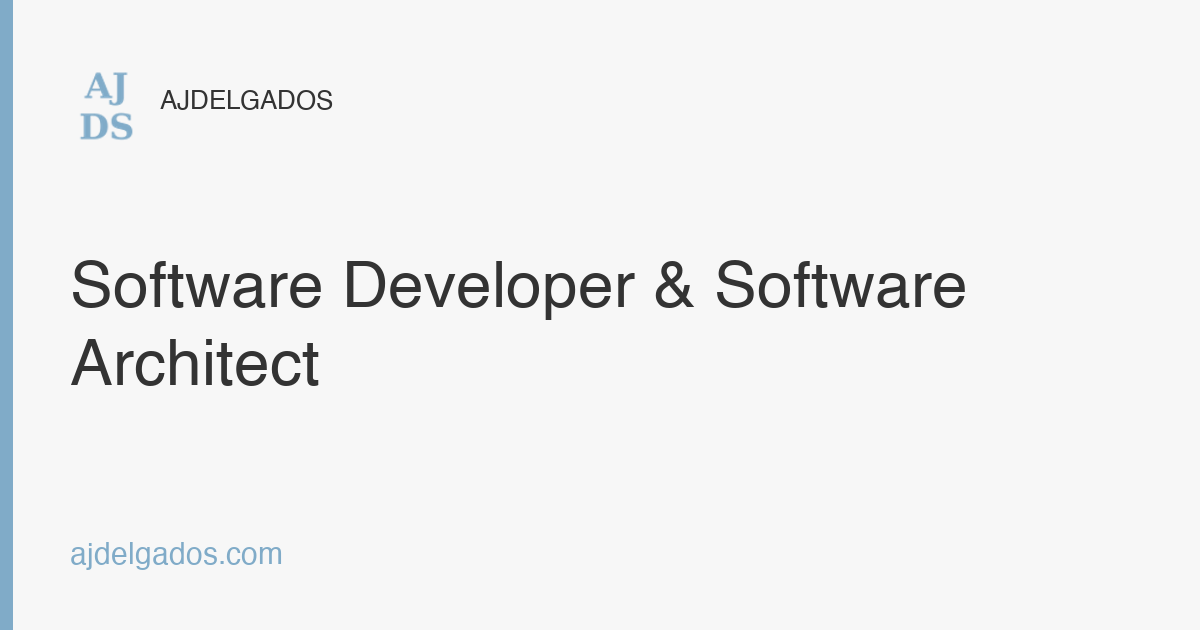
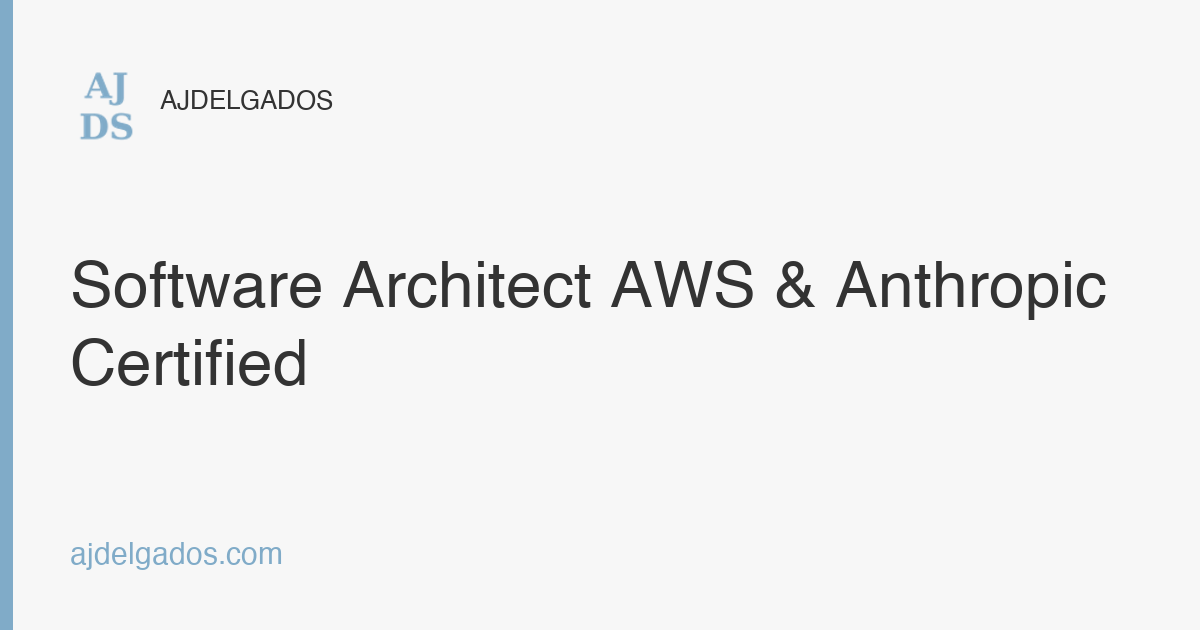
Add badges

Changed region(s): [[0.2775, 0.3921, 0.925, 0.5127], [0.0617, 0.5429, 0.2775, 0.6333]]

diff --git a/index.html b/index.html
@@ -12,17 +12,17 @@
   </script>
   <meta name="viewport" content="width=device-width, initial-scale=1.0">
   <title>Software Developer en acción - Arturo J. Delgado S.</title>
-  <meta name="description" content="Arturo J. Delgado S. — Software Developer & Software Architect. Blog sobre AWS, React, NestJS, Golang, GraphQL y más.">
+  <meta name="description" content="Arturo J. Delgado S. — Software Developer & Software Architect. Blog sobre AWS, Kubernetes, Python, Terraform, AI y más.">
   <link rel="canonical" href="https://ajdelgados.com/">
   <meta name="author" content="Arturo J. Delgado S.">
-  <meta name="keywords" content="Arturo Delgado, Software Developer, Software Architect, AWS, React, NestJS, Golang, GraphQL, blog">
+  <meta name="keywords" content="Arturo Delgado, Software Developer, AWS Certified, AWS Solutions Architect Professional, AWS DevOps Engineer, Claude Certified Architect, Anthropic">
   <meta name="robots" content="index, follow">
   <!-- Open Graph -->
   <meta property="og:type" content="website">
   <meta property="og:site_name" content="AJDELGADOS">
   <meta property="og:locale" content="es_ES">
   <meta property="og:title" content="Software Developer en acción - Arturo J. Delgado S.">
-  <meta property="og:description" content="Arturo J. Delgado S. — Software Developer &amp; Software Architect. Blog sobre AWS, React, NestJS, Golang, GraphQL y más.">
+  <meta property="og:description" content="Arturo J. Delgado S. — Software Developer &amp; Software Architect. Blog sobre AWS, Kubernetes, Python, Terraform, AI y más.">
   <meta property="og:url" content="https://ajdelgados.com/">
   <meta property="og:image" content="https://ajdelgados.com/assets/og-home.png">
   <meta property="og:image:width" content="1200">
@@ -31,12 +31,13 @@
   <meta name="twitter:card" content="summary_large_image">
   <meta name="twitter:site" content="@ajdelgados">
   <meta name="twitter:title" content="Software Developer en acción - Arturo J. Delgado S.">
-  <meta name="twitter:description" content="Arturo J. Delgado S. — Software Developer &amp; Software Architect. Blog sobre AWS, React, NestJS, Golang, GraphQL y más.">
+  <meta name="twitter:description" content="Arturo J. Delgado S. — Software Developer &amp; Software Architect. Blog sobre AWS, Kubernetes, Python, Terraform, AI y más.">
   <meta name="twitter:image" content="https://ajdelgados.com/assets/og-home.png">
   <link rel="icon" href="assets/favicon-32x32.png" sizes="32x32">
   <link rel="icon" href="assets/favicon-192x192.png" sizes="192x192">
   <link rel="apple-touch-icon" href="assets/apple-touch-icon.png">
   <link rel="stylesheet" href="https://cdnjs.cloudflare.com/ajax/libs/font-awesome/4.7.0/css/font-awesome.min.css">
+  <link rel="stylesheet" href="https://use.typekit.net/kmj5qkr.css">
   <style>
     :root {
       --accent: #80abc8;
@@ -130,6 +131,77 @@
     .feature .icon:hover i { color: #fff; }
     .feature h3 { margin-bottom: 10px; font-size: 18px; }
 
+    /* Badges (Credly) */
+    #badges { border-top: 1px solid var(--border); }
+    /* Los 8 badges de Credly son iframes: su texto no es indexable ni lo lee
+       un screen reader. Esta lista da el equivalente accesible/rastreable. */
+    .sr-only {
+      position: absolute; width: 1px; height: 1px; overflow: hidden;
+      clip: rect(0 0 0 0); clip-path: inset(50%); white-space: nowrap;
+    }
+    .badges-grid {
+      display: grid; grid-template-columns: repeat(3, 150px);
+      justify-content: center; gap: 30px 40px;
+    }
+    /* Reserve the embed's 150x270 box so the async iframes don't shift the layout */
+    .badge { width: 150px; min-height: 270px; }
+
+    /* Toptal badge — hexágono propio, no es un embed de Credly.
+       El marco replica el CSS del iframe de Credly para que la celda se vea
+       igual a las otras 8: borde #e5e5e5 radio 3px + barra inferior #f0f0f0. */
+    .tt-badge {
+      display: flex; flex-direction: column;
+      background: #fff; border: 1px solid #e5e5e5; border-radius: 3px;
+      /* el marco se ajusta a su contenido en vez de estirarse a los 270px
+         que los iframes de Credly necesitan reservar */
+      align-self: start; min-height: 0;
+    }
+    .tt-badge-body { display: flex; justify-content: center; padding: 22px 0 0; }
+    .tt-badge-inner {
+      --hex: polygon(50% 0, 100% 24%, 100% 76%, 50% 100%, 0 76%, 0 24%);
+      font-family: proxima-nova, "Helvetica Neue", Arial, sans-serif;
+      /* zoom (no transform) para que el tamaño reducido cuente en el layout
+         y flex pueda centrarlo sin márgenes negativos. */
+      zoom: .46;
+    }
+    /* mismos valores que #badge-name / #badge-issuer del embed de Credly */
+    .tt-name {
+      display: block; color: #333; font-size: 15px; font-weight: normal;
+      line-height: 1.1em; margin: 22px 8px 8px; text-align: center;
+    }
+    .tt-issuer {
+      color: #666; font-size: 12px; font-style: italic;
+      line-height: 1.1em; margin: 0 8px 18px; text-align: center;
+    }
+    .tt-name a { color: #333; }
+    .tt-name a:hover { color: var(--link-hover); }
+    .tt-provided {
+      background: #f0f0f0; border-top: 1px solid #e2e2e2;
+      border-radius: 0 0 3px 3px;
+      color: #b6b6b6; font-size: 7px; line-height: 28px;
+      text-transform: uppercase; text-align: center; letter-spacing: .5px;
+    }
+    .tt-frame { display: inline-block; background: #25a9ef; padding: 6px; clip-path: var(--hex); }
+    .tt-card {
+      width: 200px; padding: 24px 0 40px;
+      display: flex; flex-direction: column; align-items: center; gap: 8px;
+      color: #fff; text-align: center;
+      background: linear-gradient(153deg, #0667ff 18%, #204ecf 40%, #0f256e 80%);
+      clip-path: var(--hex); box-shadow: 0 28px 50px rgba(6,30,96,.35);
+    }
+    /* rótulo del gráfico, no un heading: es un span para no ensuciar el
+       outline de headings de la página (display:block reemplaza el del h3) */
+    .tt-title { display: block; margin: 0; font-size: 19px; font-weight: 700; line-height: 1; color: #fff; }
+    .tt-rule { width: 120px; height: 1px; background: #25a9ef; }
+    .tt-by { font-size: 16px; opacity: .8; margin-bottom: -6px; }
+    .tt-cta {
+      display: inline-flex; align-items: center; justify-content: center;
+      padding: 4px 20px; border-radius: 6px; background: #296bff;
+      color: #fff; font-size: 16px; font-weight: 500;
+      text-decoration: underline; text-decoration-thickness: .5px; text-underline-offset: 2px;
+    }
+    .tt-cta:hover { color: #fff; background: #1a56e0; }
+
     /* Blog */
     .blog { background: var(--light); }
     .posts { display: grid; grid-template-columns: repeat(2, 1fr); gap: 30px; }
@@ -165,6 +237,11 @@
       .header-inner { flex-direction: column; gap: 16px; }
       .features, .posts { grid-template-columns: 1fr; }
       .hero h1 { font-size: 30px; }
+      .badges-grid { grid-template-columns: repeat(2, 150px); gap: 24px; }
+    }
+
+    @media (max-width: 420px) {
+      .badges-grid { grid-template-columns: 150px; }
     }
 
     /* Touch devices: 44px minimum tap targets (input method, not screen size) */
@@ -189,6 +266,64 @@
       "https://www.linkedin.com/in/ajdelgados",
       "https://www.facebook.com/ajdelgados",
       "https://www.twitter.com/ajdelgados"
+    ],
+    "hasCredential": [
+      {
+        "@type": "EducationalOccupationalCredential",
+        "name": "Claude Certified Architect - Foundations",
+        "credentialCategory": "certification",
+        "url": "https://www.credly.com/badges/feece8af-5340-4550-8ade-09badb1aa62a",
+        "recognizedBy": { "@type": "Organization", "name": "Anthropic" }
+      },
+      {
+        "@type": "EducationalOccupationalCredential",
+        "name": "AWS Certified Generative AI Developer - Professional",
+        "credentialCategory": "certification",
+        "url": "https://www.credly.com/badges/9a708c68-4aa1-4bce-8f73-2cc88c1d6a04",
+        "recognizedBy": { "@type": "Organization", "name": "Amazon Web Services" }
+      },
+      {
+        "@type": "EducationalOccupationalCredential",
+        "name": "AWS Certified Solutions Architect - Professional",
+        "credentialCategory": "certification",
+        "url": "https://www.credly.com/badges/8902d4fc-3191-45e8-8014-0bf8af8eeef8",
+        "recognizedBy": { "@type": "Organization", "name": "Amazon Web Services" }
+      },
+      {
+        "@type": "EducationalOccupationalCredential",
+        "name": "AWS Certified DevOps Engineer - Professional",
+        "credentialCategory": "certification",
+        "url": "https://www.credly.com/badges/6dfebd2c-2da3-413a-9fcb-7db323493552",
+        "recognizedBy": { "@type": "Organization", "name": "Amazon Web Services" }
+      },
+      {
+        "@type": "EducationalOccupationalCredential",
+        "name": "AWS Certified Security - Specialty",
+        "credentialCategory": "certification",
+        "url": "https://www.credly.com/badges/35d16ca4-dcbe-4157-9798-607511eed3c8",
+        "recognizedBy": { "@type": "Organization", "name": "Amazon Web Services" }
+      },
+      {
+        "@type": "EducationalOccupationalCredential",
+        "name": "AWS Certified Advanced Networking - Specialty",
+        "credentialCategory": "certification",
+        "url": "https://www.credly.com/badges/72b4f514-bfd9-4792-be84-952b9d17e926",
+        "recognizedBy": { "@type": "Organization", "name": "Amazon Web Services" }
+      },
+      {
+        "@type": "EducationalOccupationalCredential",
+        "name": "AWS Certified Machine Learning - Specialty",
+        "credentialCategory": "certification",
+        "url": "https://www.credly.com/badges/9a89ee8f-55db-44e0-997d-614f7e3b1f9d",
+        "recognizedBy": { "@type": "Organization", "name": "Amazon Web Services" }
+      },
+      {
+        "@type": "EducationalOccupationalCredential",
+        "name": "AWS Certified Machine Learning Engineer - Associate",
+        "credentialCategory": "certification",
+        "url": "https://www.credly.com/badges/967560f4-1cd6-46c0-b578-3eb1f3db700d",
+        "recognizedBy": { "@type": "Organization", "name": "Amazon Web Services" }
+      }
     ]
   }
 }
@@ -210,6 +345,7 @@
       <nav>
         <ul>
           <li><a href="#inicio">Inicio</a></li>
+          <li><a href="#badges">Badges</a></li>
           <li><a href="#blog">Blog</a></li>
         </ul>
       </nav>
@@ -221,7 +357,7 @@
   <section class="hero" id="inicio">
     <div class="container">
       <h1>Hola, soy <span class="accent">Arturo</span></h1>
-      <p>Software Developer y Software Architect apasionado por mi profesión. Ayudo a organizaciones y personas a construir sistemas de información eficientes.</p>
+      <p>Software Developer y Software Architect apasionado por mi profesión. AWS & Anthropic certified y ayudo a organizaciones y personas a construir sistemas de información eficientes.</p>
     </div>
   </section>
 
@@ -248,6 +384,44 @@
       </div>
     </div>
   </section>
+
+  <section id="badges">
+    <div class="container">
+      <h2 class="section-title">Badges — Certificaciones AWS y Anthropic</h2>
+      <p class="section-sub">14 certificaciones AWS —incluidas Solutions Architect, DevOps Engineer y Generative AI Developer a nivel Professional— y Claude Certified Architect de Anthropic.</p>
+      <hr class="divider">
+      <div class="badges-grid">
+        <div class="badge" data-iframe-width="150" data-iframe-height="270" data-share-badge-id="feece8af-5340-4550-8ade-09badb1aa62a" data-share-badge-host="https://www.credly.com"></div>
+        <div class="badge" data-iframe-width="150" data-iframe-height="270" data-share-badge-id="9a708c68-4aa1-4bce-8f73-2cc88c1d6a04" data-share-badge-host="https://www.credly.com"></div>
+        <div class="badge" data-iframe-width="150" data-iframe-height="270" data-share-badge-id="8902d4fc-3191-45e8-8014-0bf8af8eeef8" data-share-badge-host="https://www.credly.com"></div>
+        <div class="badge" data-iframe-width="150" data-iframe-height="270" data-share-badge-id="6dfebd2c-2da3-413a-9fcb-7db323493552" data-share-badge-host="https://www.credly.com"></div>
+        <div class="badge" data-iframe-width="150" data-iframe-height="270" data-share-badge-id="35d16ca4-dcbe-4157-9798-607511eed3c8" data-share-badge-host="https://www.credly.com"></div>
+        <div class="badge" data-iframe-width="150" data-iframe-height="270" data-share-badge-id="72b4f514-bfd9-4792-be84-952b9d17e926" data-share-badge-host="https://www.credly.com"></div>
+        <div class="badge" data-iframe-width="150" data-iframe-height="270" data-share-badge-id="9a89ee8f-55db-44e0-997d-614f7e3b1f9d" data-share-badge-host="https://www.credly.com"></div>
+        <div class="badge" data-iframe-width="150" data-iframe-height="270" data-share-badge-id="967560f4-1cd6-46c0-b578-3eb1f3db700d" data-share-badge-host="https://www.credly.com"></div>
+        <div class="badge tt-badge">
+          <div class="tt-badge-body">
+          <div class="tt-badge-inner">
+          <div class="tt-frame">
+            <div class="tt-card">
+              <svg width="64" viewBox="0 0 60 17" xmlns="http://www.w3.org/2000/svg" aria-hidden="true" focusable="false"><path d="m20.85 6.38 6.06-.89 2.72-5.49 2.71 5.49 6.06.89-4.39 4.28 1.04 6.03-5.42-2.85-5.43 2.85 1.04-6.03zm33.06 7.17 1.85-.27.82-1.67.83 1.67 1.84.27-1.33 1.31.31 1.83-1.65-.87-1.66.87.32-1.83zm-3.38-3.01-3.61-.52-1.61-3.26-1.62 3.26-3.6.52 2.6 2.55-.61 3.59 3.23-1.69 3.21 1.69-.61-3.59zm-45.19 3.01-1.85-.27-.82-1.67-.83 1.67-1.84.27 1.33 1.31-.31 1.83 1.65-.87 1.65.87-.31-1.83zm3.38-3.01 3.61-.52 1.61-3.26 1.61 3.26 3.61.52-2.6 2.55.61 3.59-3.23-1.69-3.22 1.69.62-3.59z" fill="#fff"/></svg>
+              <span class="tt-title">TOP 3% TALENT</span>
+              <div class="tt-rule"></div>
+              <span class="tt-by">Vetted by</span>
+              <svg viewBox="0 0 108 30" width="100" xmlns="http://www.w3.org/2000/svg" role="img" aria-label="Toptal"><g clip-rule="evenodd" fill="#fff" fill-rule="evenodd"><path d="m8.11 0 6.71 6.7c.05.05.09.1.15.15l5.85 5.85-9.51 9.46 4.35 4.36-2.91 2.89-6.66-6.66c-.08-.07-.16-.15-.24-.23l-5.85-5.84 9.48-9.43-4.32-4.31zm4.25 10.5c-.09-.02-.18-.02-.26 0-.09.03-.16.07-.32.22l-5.41 5.39c-.16.16-.2.23-.22.31-.03.09-.03.18 0 .26.02.09.07.17.22.32l1.72 1.72c.15.15.22.19.31.22.09.02.17.02.26 0 .09-.03.16-.07.31-.22l5.41-5.39c.16-.15.2-.23.23-.31.02-.09.02-.17 0-.26s-.07-.16-.22-.31l-1.72-1.72c-.15-.16-.23-.2-.31-.23z"/><path d="m62.65 7.76c2.11 0 3.91.82 5.34 2.4 1.46 1.53 2.19 3.64 2.18 6.26 0 2.56-.75 4.8-2.24 6.38-1.47 1.57-3.34 2.37-5.58 2.37-1.93-.01-3.68-.7-4.84-1.89l-.16-.17-.01 6.75-3.82-.01v-.28l.04-21.61h3.8l-.01 2.64c1.25-1.41 3.26-2.84 5.3-2.84zm24.45.06c2.18 0 3.68.49 4.84 1.44 1.11.92 1.7 2.56 1.75 4.29v.26l-.02 11.14h-3.87v-.46c0-.48 0-.97 0-1.47-1.12 1.55-2.68 2.3-4.76 2.3-1.65 0-3.05-.5-4.07-1.43-1.03-.94-1.58-2.23-1.58-3.73.02-2.83 2.02-4.79 5.52-5.4l.27-.05 4.64-.73v-.37c0-.78-.23-1.72-.69-2.11-.47-.4-1.04-.73-2.03-.73-2.73 0-3.29 2.01-3.32 3.02v.09l-3.42.04c0-1.49.69-3.42 2.08-4.63 1.12-.97 2.75-1.42 4.33-1.47h.3zm-14.98-4.36h3.81l-.01 4.56h3.53v3.18l-3.54-.01-.01 8.54c0 .94.19 1.56.6 1.85.43.3 1.3.02 1.3.02l.34 3.32s-1.2.31-1.96.31c-.99 0-1.84-.25-2.49-.75-1.06-.8-1.6-2.2-1.6-4.17l.02-9.12-3.19-3.19 3.2.01zm-22.46 6.8c1.1 1.13 2.41 3.14 2.4 6.26-.01 3.11-1.32 5.11-2.41 6.24-1.5 1.54-3.54 2.42-5.59 2.42-.08 0-.16 0-.25-.01-2.19-.01-4.13-.79-5.75-2.33-1.63-1.55-2.46-3.68-2.46-6.36s.84-4.82 2.47-6.36c1.62-1.53 3.55-2.3 5.75-2.3 2.17-.07 4.29.83 5.84 2.44zm-8.81-7.04v3.77l-7.36.01.02 17.97-3.97-.01v-.34l.03-17.63h-7.51l.01-3.77zm54.68.25 3.42.01v.09l-.03 21.38-3.42-.01v-.1zm-5.71 13.58-3.81.64c-1.86.32-2.72 1.04-2.73 2.3-.01 1.15.81 1.92 2.09 1.99h.16.02c2.44 0 4.17-1.9 4.26-4.67l.01-.22zm-46.02-5.84c-1.28 0-2.39.49-3.29 1.47-.88.96-1.33 2.24-1.33 3.81 0 1.58.45 2.86 1.33 3.82.89.98 2 1.47 3.28 1.48 1.3 0 2.42-.49 3.31-1.47.9-.98 1.35-2.26 1.36-3.81.01-1.56-.45-2.84-1.35-3.82s-2.01-1.48-3.31-1.48zm17.94.12h-.02c-1.28 0-2.34.46-3.24 1.43-.9.94-1.35 2.16-1.36 3.63 0 1.49.45 2.83 1.35 3.8.92.95 1.98 1.42 3.25 1.42 1.29 0 2.38-.48 3.25-1.41.91-.97 1.35-2.3 1.36-3.79 0-1.48-.46-2.7-1.34-3.63-.87-.96-1.96-1.45-3.25-1.45z"/></g></svg>
+              <a class="tt-cta" href="https://www.toptal.com/developers/resume/arturo-delgado#eb1xjG" target="_blank" rel="noopener">Hire me</a>
+            </div>
+          </div>
+          </div>
+          </div>
+          <span class="tt-name"><a href="https://www.toptal.com/developers/resume/arturo-delgado#eb1xjG" target="_blank" rel="noopener">Top 3% Talent</a></span>
+          <div class="tt-issuer">Issuer: Toptal</div>
+          <div class="tt-provided">Provided by Toptal</div>
+        </div>
+      </div>
+    </div>
+  </section>
+  <script type="text/javascript" async src="//cdn.credly.com/assets/utilities/embed.js"></script>
 
   <section class="blog" id="blog">
     <div class="container">
